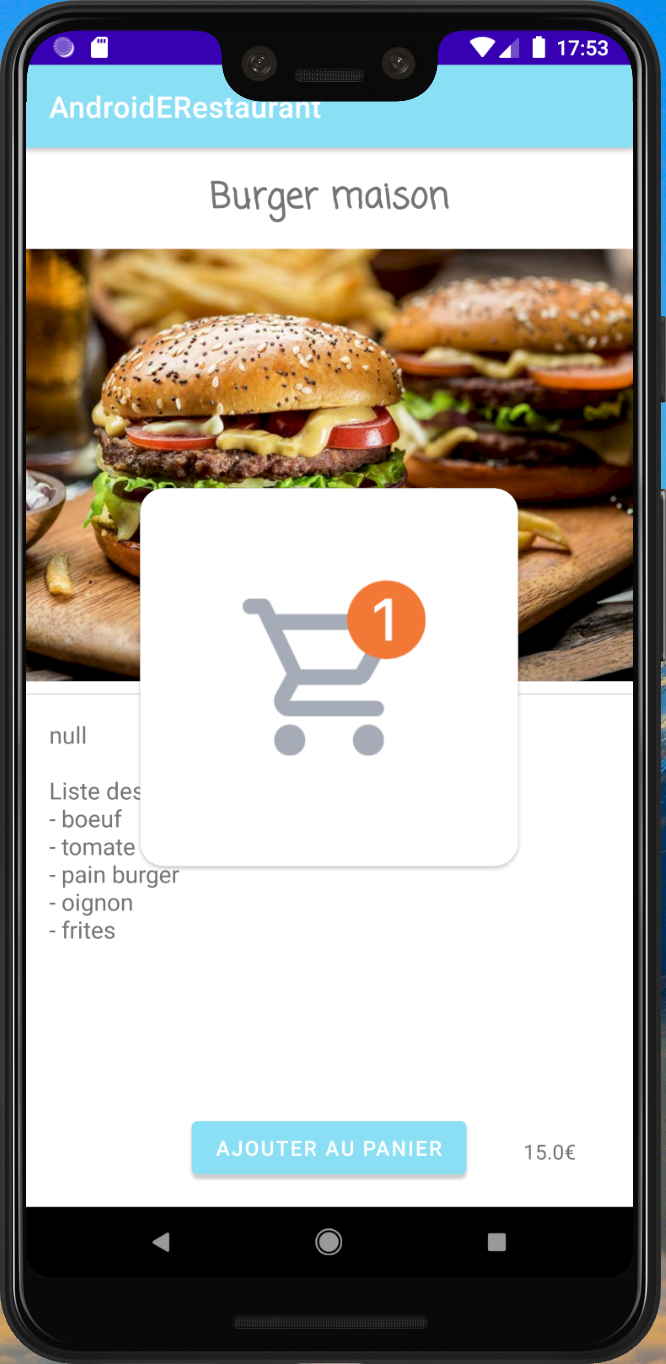
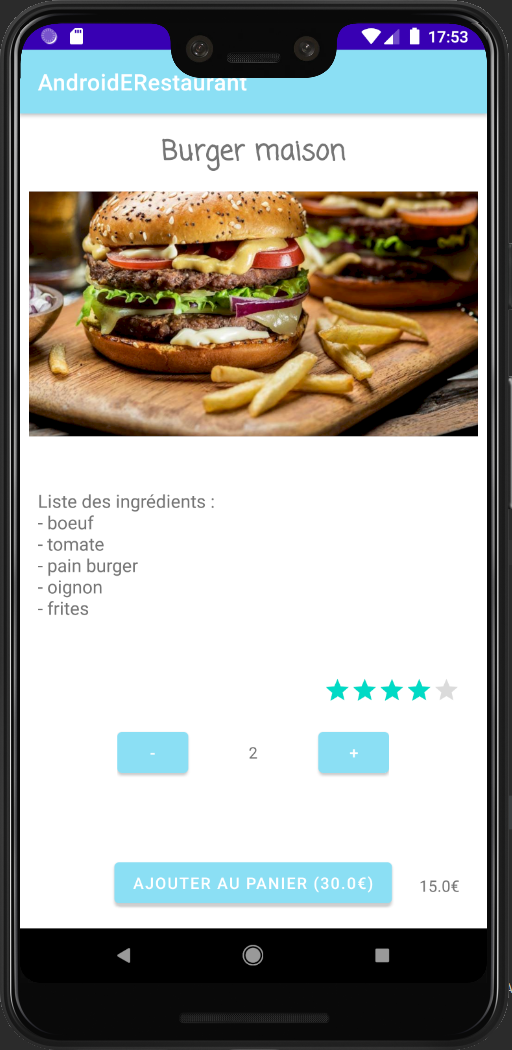
Modifs description

diff --git a/README.md b/README.md
@@ -3,7 +3,8 @@ Devoir Android - Ratatouille - Thibaud SIMON
 Pour le cours de développement sous Android Studio
 
 ### En ce moment :
-Partie IV- a/
+Partie IV- g/
++ successful singleton Basket handling thanks to Koin injector
 
 ## Previews
 ### Menu / Home page
@@ -12,5 +13,7 @@ Partie IV- a/
 ![plats](repository/images/plats.PNG)
 ### Dishes in the desserts category
 ![desserts](repository/images/desserts.PNG)
-### Details (displaying the Added-to-cart animation)
+### Details page
 ![achat](repository/images/achat.PNG)
+### Shopping Basket
+![panier](repository/images/panier.PNG)
